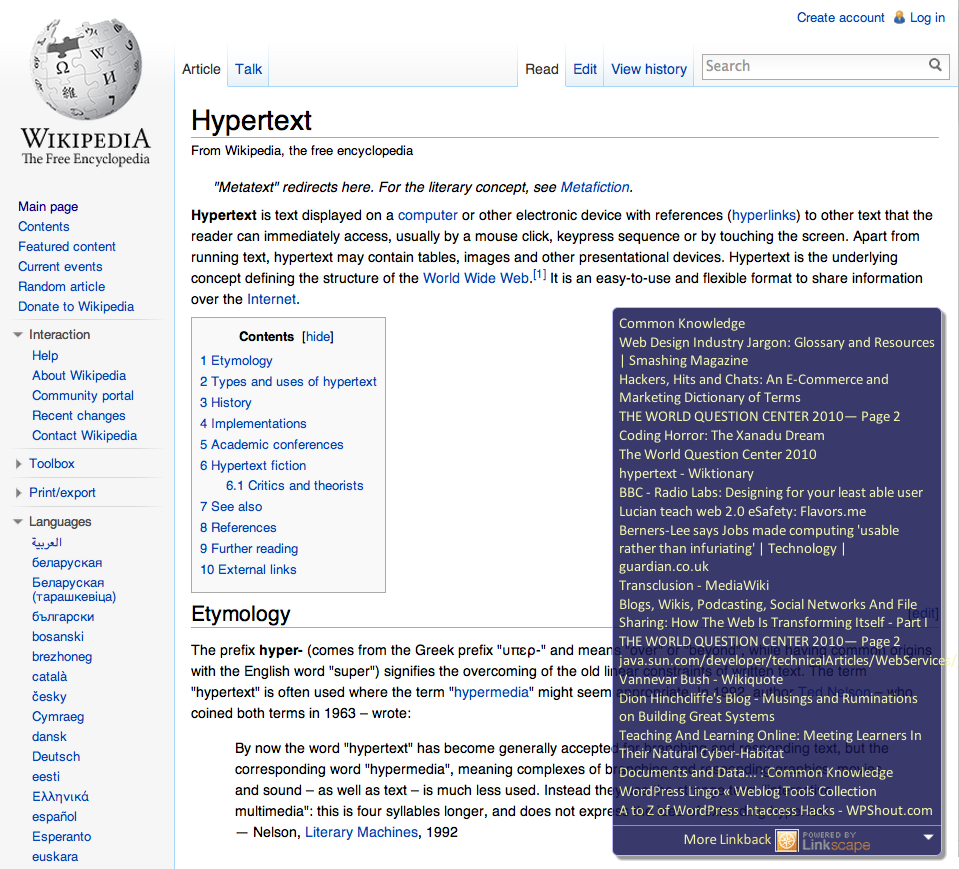
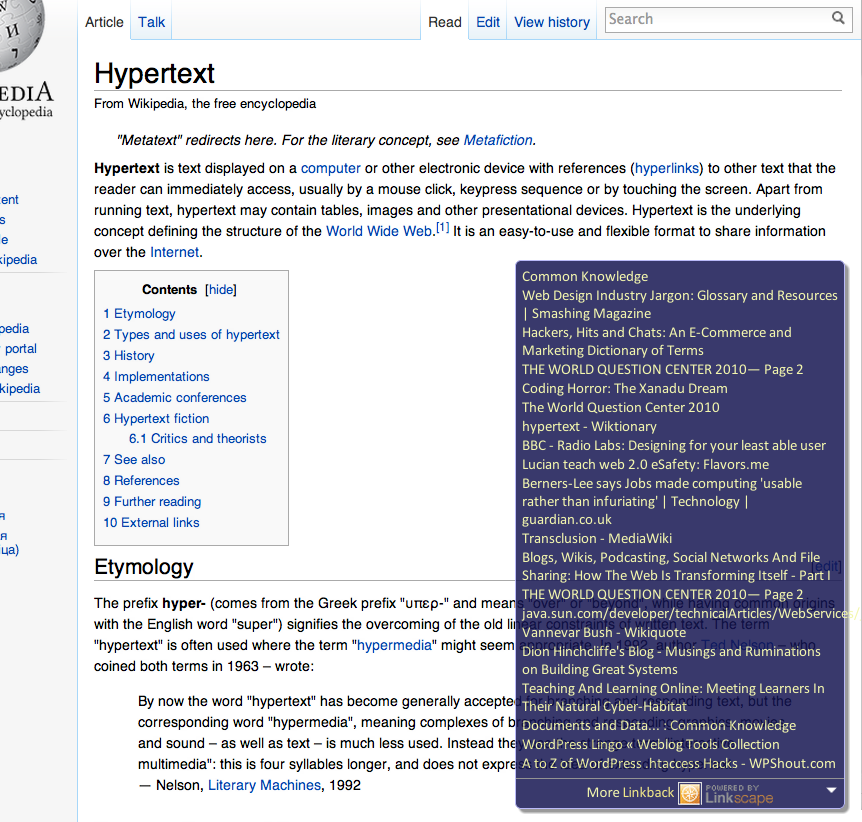
cosmetics, start with widget open

diff --git a/extension/background.js b/extension/background.js
@@ -1,18 +1,22 @@
-// good christ is this unnecessarily hairy.
+function isOpen() {
+    // default to true
+    return localStorage.getItem('linkback_open') != "false"
+}
 
+// good christ chrome makes you jump through hopes to store 1 bit
 chrome.extension.onMessage.addListener(
     function(request, sender, sendResponse) {
 	console.log(sender.tab ?
                     "from a content script:" + sender.tab.url :
                     "from the extension");
 	if (request.cmd == "isOpen")
-	    sendResponse((localStorage.getItem('linkback_open') == "true"));
+	    sendResponse(isOpen());
 	else if (request.cmd == "setOpen") {
 	    var nv = request.value;
 	    localStorage.setItem('linkback_open', nv);
 	    sendResponse("set");
 	} else if (request.cmd == "switchOpen") {
-	    var nv = !(localStorage.getItem('linkback_open') == "true");
+	    var nv = !(isOpen());
 	    localStorage.setItem('linkback_open', nv);
 	    sendResponse(nv);
 	}

diff --git a/extension/script.js b/extension/script.js
@@ -3,7 +3,6 @@ var server = 'http://linkback.herokuapp.com';
 var homeSiteUrl = "http://linkback.herokuapp.com";
 var seomozUrl = "http://seomoz.org";
 var seomozIconUrl = homeSiteUrl +  "/linkscape.png";
-// var homeIconUrl = "http://hyperphor.com/hyperphor-tiny.png";
 
 var openclose;
 var pageUrl;
@@ -118,7 +117,7 @@ function  makeWindow() {
 }
 
 function insertOpenClose() {
-    openclose  = document.createElement('div');
+    openclose = document.createElement('div');
     openclose.setAttribute('class', 'linkbackopener');
     opencloseUpdate();
     openclose.addEventListener('click', openCloseHandler, true);

diff --git a/public/style.css b/public/style.css
@@ -1,5 +1,5 @@
 body {
-    font-family: 'Gill Sans';
+    font-family: 'Varela', sans-serif;
 }
 
 a:link {
@@ -20,8 +20,8 @@ td {
     padding-right: 40px;
     font-size: 16pt;
     text-decoration: none;
-    color: white;
-    background-color: #44d;
+    color: #F1F5A0;
+    background-color: #161652;
     border-radius: 10px;
 }
 
